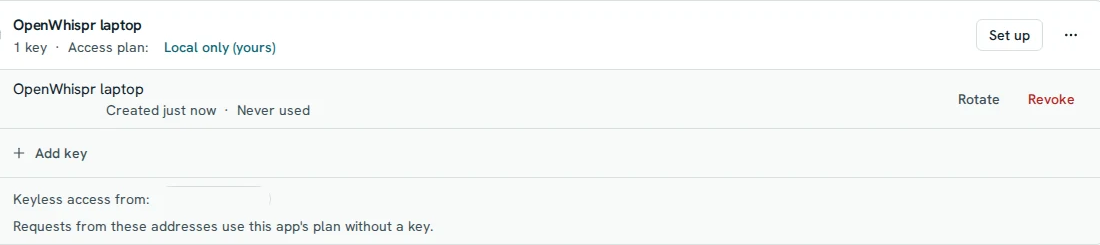
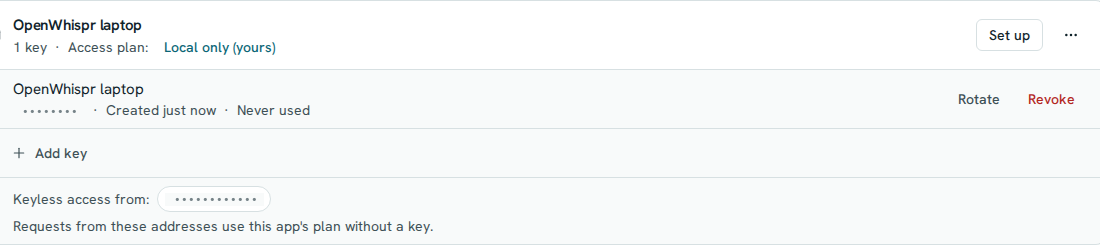
Fix footer spacing and mask screenshot values
Short footer labels inherited 44px minimum widths, so visible gaps varied. Overlapping horizontal padding keeps the link hit areas at least 44px square while preserving 24px between labels.

The landing-page screenshots hid the key prefix and the address allowed to use the app without a key in blank boxes. Rebuild all four crops from their source captures with muted monospace bullets so both masks are deliberate.

diff --git a/src/styles/global.css b/src/styles/global.css
@@ -179,7 +179,7 @@ h1, h2, h3, p, li { overflow-wrap: anywhere; }
 /* Footer */
 .foot { margin-top: var(--section-space); border-top: 1px solid var(--line); padding-block: 22px 36px; color: var(--muted); font-size: var(--type-small); }
 .foot-links { display: flex; flex-wrap: wrap; align-items: center; gap: 24px; }
-.foot-links a { display: inline-flex; align-items: center; min-height: 44px; min-width: 44px; padding-inline: 0; color: var(--text); }
+.foot-links a { display: inline-flex; align-items: center; min-height: 44px; padding-inline: 12px; margin-inline: -12px; color: var(--text); }
 .foot-links .footer-product { font-weight: 650; text-decoration: none; }
 
 .lede { margin: 16px 0 0; max-width: 65ch; font-size: var(--type-body); line-height: var(--leading); color: var(--muted); }

diff --git a/DESIGN.md b/DESIGN.md
@@ -68,10 +68,10 @@ Light surfaces use the app palette: background `#f3f6f6`, ink `#10232a`, primary
 
 ## Layout and interaction
 
-The header lists Examples, Docs, and API, with the setup guide as its primary action. The footer links to the product, Docs, API, and Security; they share a 24px flex gap, use 0px horizontal padding, align the first link with the content edge, and keep a 44px minimum hit height. Home claims use plain rows with thin separators. The process stays on one line with right arrows above 720px, then stacks its stages with 90° down arrows and an 8px gap at 720px and below. The setup section has one short paragraph and a link to `/docs/start/install/`, with no homepage commands.
+The header lists Examples, Docs, and API, with the setup guide as its primary action. The footer links to the product, Docs, API, and Security; their text stays 24px apart. Each link keeps a 44px minimum hit area with 12px inline padding and matching negative margins, so the hit area fills the flex gap without changing visible spacing. The first link text aligns with the content edge. Home claims use plain rows with thin separators. The process stays on one line with right arrows above 720px, then stacks its stages with 90° down arrows and an 8px gap at 720px and below. The setup section has one short paragraph and a link to `/docs/start/install/`, with no homepage commands.
 
 The site respects system light and dark preferences, keyboard focus, reduced motion, and a 390px viewport with 20px side gutters. The 340px-wide phone proof crop appears at widths of 900px and below in a frame capped at 342px, including its border. Both proof crops display at native size at the 1440px and 390px reference widths. There is no authored motion on the landing page. Contrast must meet WCAG AA in both themes.
 
 ## Evidence
 
-The landing page uses light and dark crops of the seeded Apps & Keys screen, captioned “Apps & keys, with demo data.” The desktop crop is 1100×245px from the 1440px capture; the phone crop is 340×397px from the 390px capture. The phone capture keeps its ellipsis row action and fixed bottom navigation. Abbreviated key values and the private address are removed from the distributed images. No testimonials, counts, live statuses, example costs, timings, or generated replies are used as proof.
+The landing page uses light and dark crops of the seeded Apps & Keys screen, captioned “Apps & keys, with demo data.” The desktop crop is 1100×245px from the 1440px capture; the phone crop is 340×397px from the 390px capture. The phone capture keeps its ellipsis row action and fixed bottom navigation. Masked key prefixes and the private address appear as muted bullet runs in monospace on their row backgrounds; no real values appear in the distributed images. No testimonials, counts, live statuses, example costs, timings, or generated replies are used as proof.
